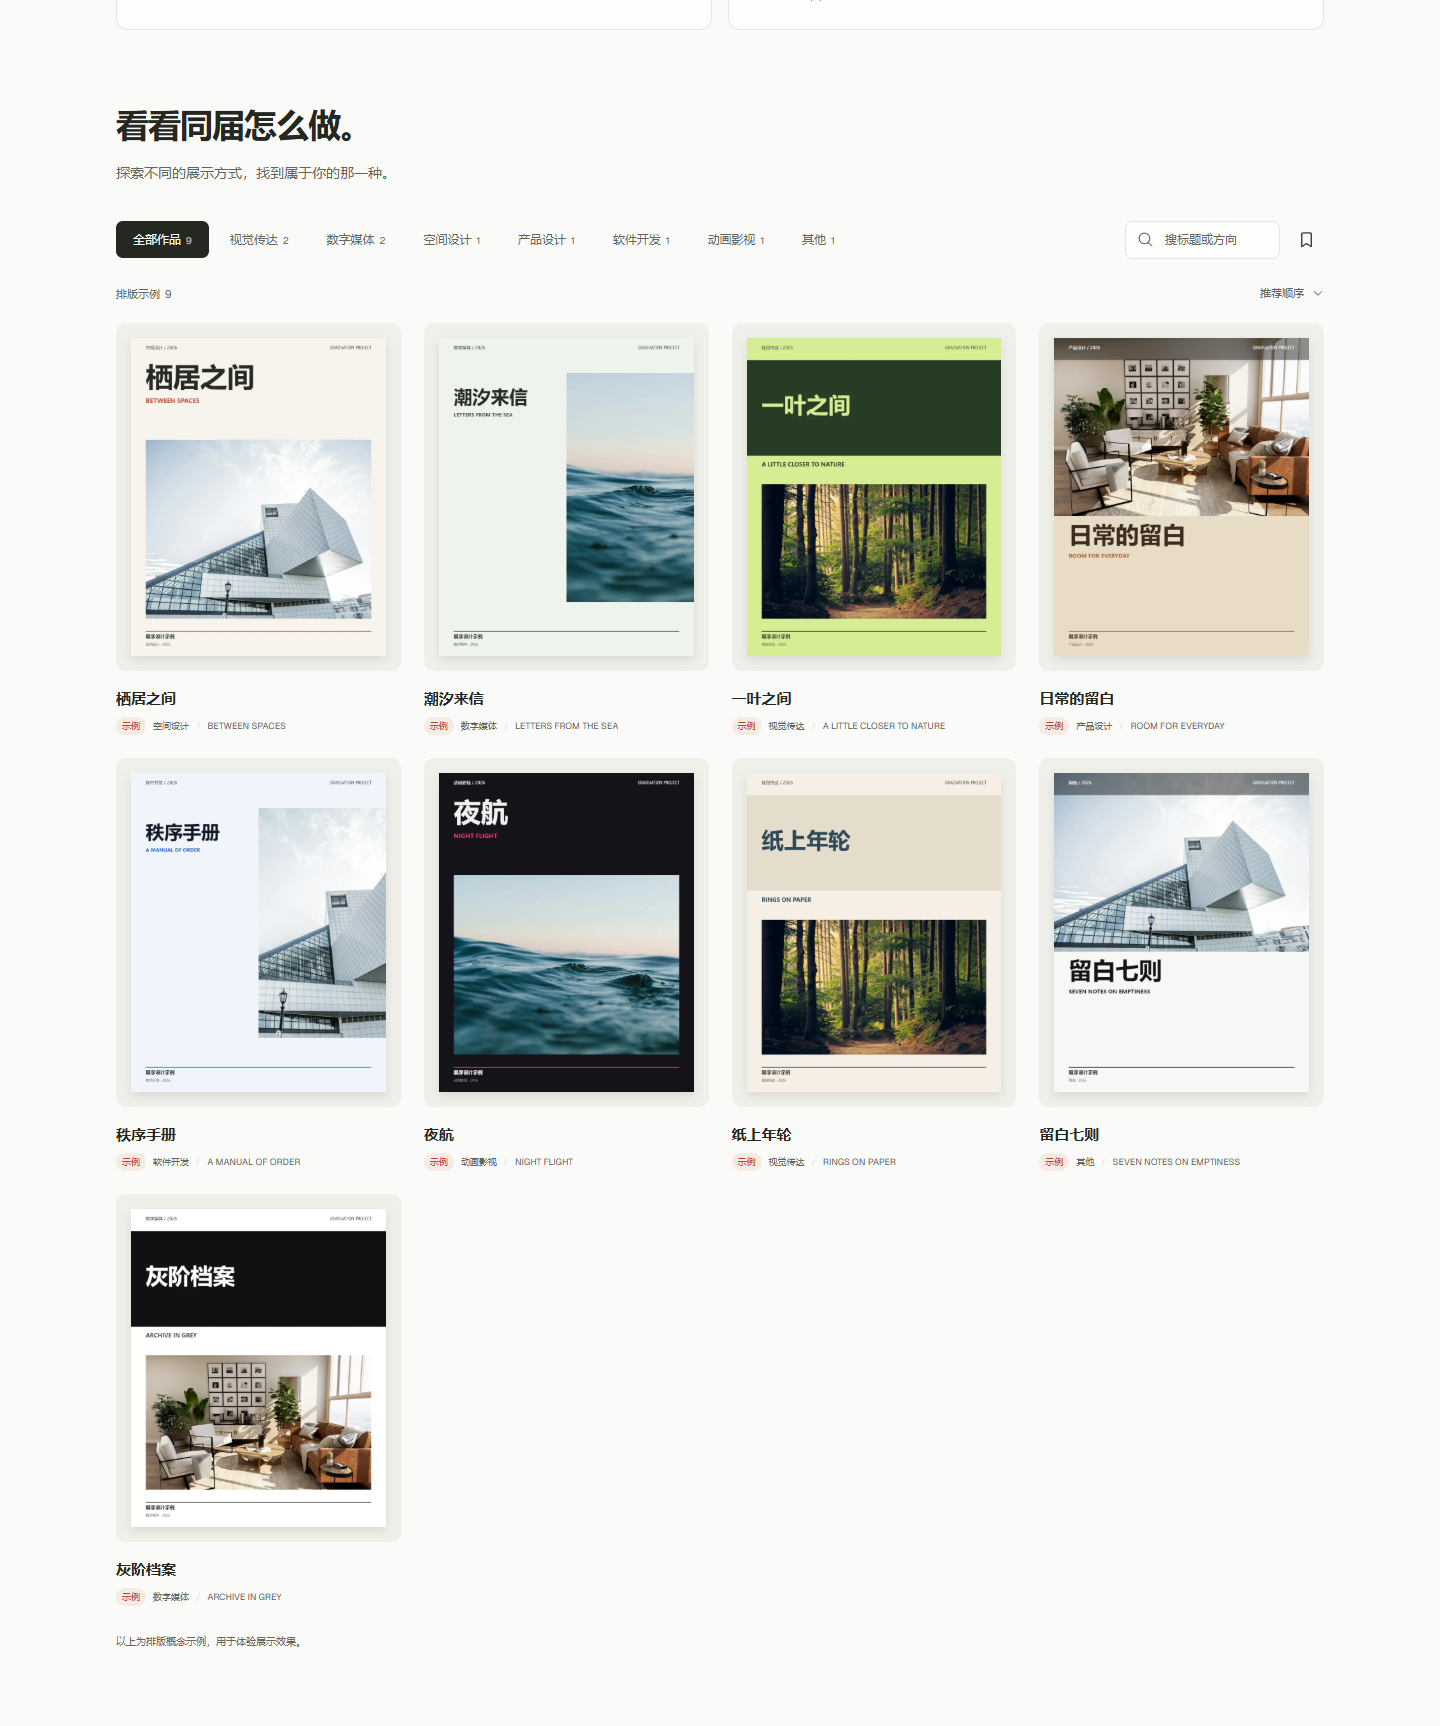
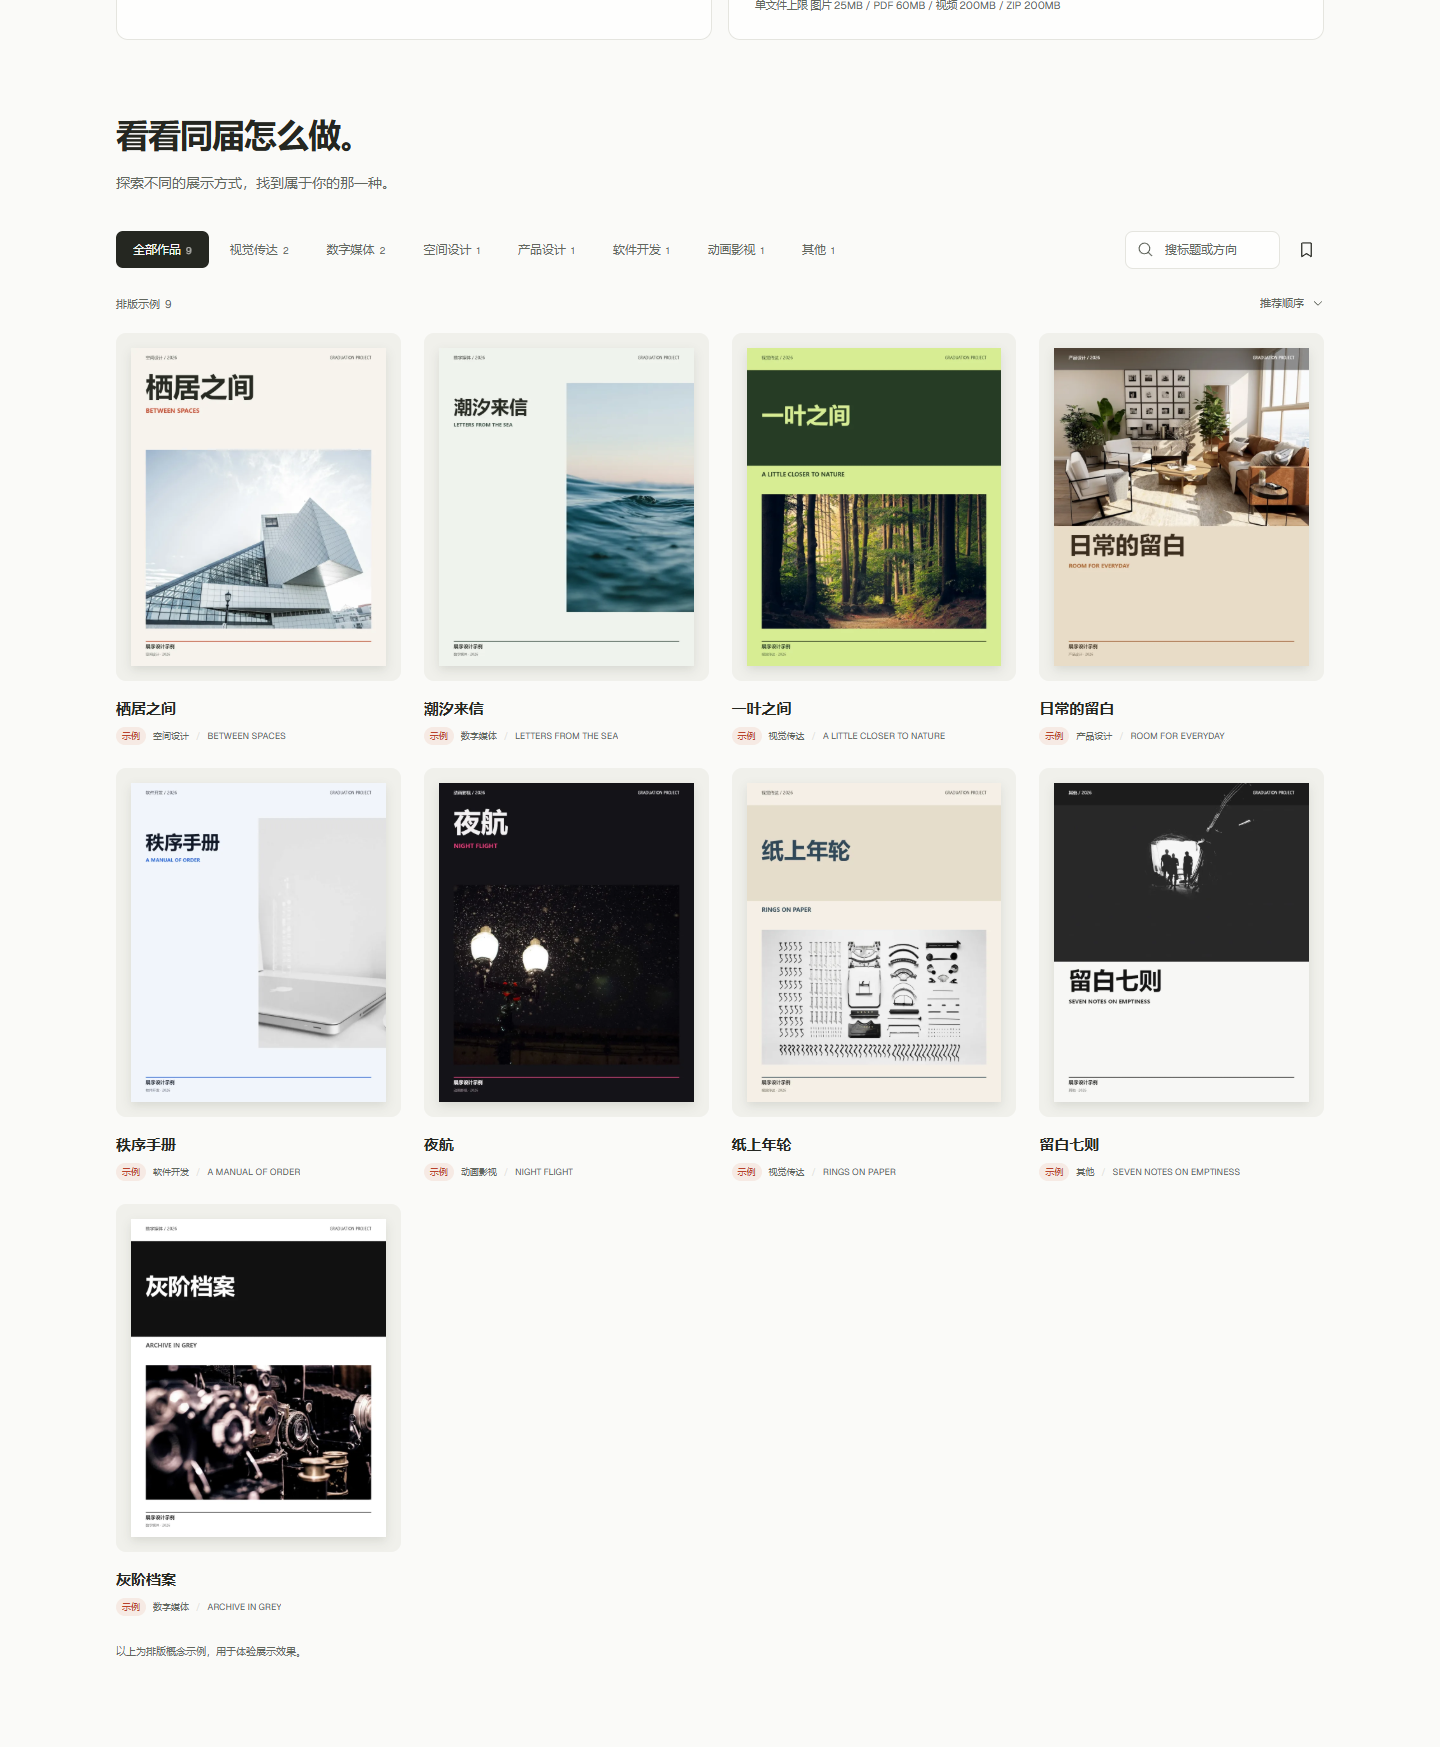
fix: 示例作品与模板展示去重，九套模板各配一个不同作品
之前展示模板页与首页模板区都拿同一个示例作品（栖居之间）套九套配色，
九张卡片看起来像同一件作品换色；九件示例也只用四张照片。

- catalog.ts 新增 sampleForTemplate()，展示模板页与首页模板区各按模板取对应示例
- 五件示例更换为互不重复的图片（工作台、铅字纸样、夜灯、旧相机、黑白剪影）
- e2e 新增展示模板页断言：九张卡片 + 九个不同预览图（浏览器检查 23 项）
- 截图更新 home/home-features/home-discover，新增 templates.png；README 截图与说明同步
- docs/release-v1.0.4.md，版本号 1.0.4

diff --git a/src/data/catalog.ts b/src/data/catalog.ts
@@ -153,7 +153,7 @@ export const samples: Project[] = [
       '为一套内部工具重新梳理信息结构：把分散的功能收进统一的层级，让每个人都摸清「东西放在哪」。',
     process: '梳理字段与流程，搭出组件规范，再用可交互原型验证命名与层级是否讲得通。',
     template: 'cobalt',
-    images: [{ id: 'f', src: '/images/architecture.jpg', name: '结构与秩序' }],
+    images: [{ id: 'f', src: '/images/desk.jpg', name: '工作台与方法手册' }],
     updatedAt: 0,
     sample: true,
   },
@@ -167,7 +167,7 @@ export const samples: Project[] = [
     intro: '一段关于夜间飞行的短片概念：用光点与声音的节奏，讲述一个人在城市上空独自行走的两小时。',
     process: '分镜推演、色彩情绪板、声音设计与剪辑节奏测试。',
     template: 'neon',
-    images: [{ id: 'g', src: '/images/ocean.jpg', name: '海面与夜色' }],
+    images: [{ id: 'g', src: '/images/night.jpg', name: '夜里的灯' }],
     updatedAt: 0,
     sample: true,
   },
@@ -181,7 +181,7 @@ export const samples: Project[] = [
     intro: '把一年的手写笔记、票据与草图整理成一本可以翻阅的小书，用纸的厚度记录时间的分层。',
     process: '素材编号与整理、网格实验、纸张与装订方式打样。',
     template: 'paper',
-    images: [{ id: 'h', src: '/images/forest.jpg', name: '纸与墨的层次' }],
+    images: [{ id: 'h', src: '/images/lettering.jpg', name: '铅字与纸样' }],
     updatedAt: 0,
     sample: true,
   },
@@ -195,7 +195,7 @@ export const samples: Project[] = [
     intro: '以七张单色影像回应「空」的七种解释，尝试用最少的元素留下最大的想象空间。',
     process: '收集日常痕迹、做减法实验、为每张影像配一句短注。',
     template: 'ink',
-    images: [{ id: 'i', src: '/images/architecture.jpg', name: '线条与空白' }],
+    images: [{ id: 'i', src: '/images/silhouette.jpg', name: '黑与白之间' }],
     updatedAt: 0,
     sample: true,
   },
@@ -209,8 +209,12 @@ export const samples: Project[] = [
     intro: '把同一处场景在不同时间拍下的照片并置，用灰阶差异标记光线与季节的推移。',
     process: '定点拍摄、灰阶校准，再按时间顺序编排成一份可对比的档案。',
     template: 'mono',
-    images: [{ id: 'j', src: '/images/interior.jpg', name: '同一处场景' }],
+    images: [{ id: 'j', src: '/images/camera.jpg', name: '档案里的器物' }],
     updatedAt: 0,
     sample: true,
   },
 ];
+/** 展示模板时给每个模板配一个「本来就用它」的示例作品：九张卡片是九个不同的作品，不是同一个作品换九套配色 */
+export function sampleForTemplate(id: TemplateId): Project {
+  return samples.find((sample) => sample.template === id) ?? samples[0];
+}

diff --git a/scripts/e2e.ts b/scripts/e2e.ts
@@ -134,6 +134,22 @@ try {
   await page.getByRole('heading', { name: '没有找到相关作品' }).waitFor();
   await page.getByRole('button', { name: '查看全部作品', exact: true }).click();
   pass('首页、示例封面与搜索空状态');
+  await page.getByRole('button', { name: '挑选展示模板' }).click();
+  await page.locator('.template-full').first().waitFor();
+  assert.equal(await page.locator('.template-full').count(), 9, '展示模板页应该列全 9 套模板');
+  const templateSources = await page
+    .locator('.template-full .poster-image img')
+    .evaluateAll((nodes) => nodes.map((node) => node.getAttribute('src') || ''));
+  assert.equal(
+    new Set(templateSources).size,
+    9,
+    '每套模板要配一个不同的示例作品，不是同一个作品换九套配色',
+  );
+  await warmScroll(page);
+  await page.screenshot({ path: path.join(out, 'templates-page.png'), fullPage: true });
+  await page.getByRole('button', { name: '返回首页' }).click();
+  await page.locator('.hero-art').waitFor();
+  pass('展示模板页：九套模板配九个不同示例');
   const fixturePage = await context.newPage();
   await fixturePage.setContent(
     '<html lang="zh-CN"><style>@page{size:A4;margin:24mm}body{font-family:Arial,sans-serif}section{break-after:page}</style><section><h1>Graduation Project</h1><h2>Project Overview</h2><p>This is a two page project document used for upload verification.</p></section><h2>Design Process</h2><p>Research, prototyping and implementation.</p></html>',

diff --git a/src/pages/Home.tsx b/src/pages/Home.tsx
@@ -13,7 +13,7 @@ import {
   CaretDown,
 } from '@phosphor-icons/react';
 import type { Project, TemplateId } from '../domain/project';
-import { categories, samples, templates } from '../data';
+import { categories, sampleForTemplate, samples, templates } from '../data';
 import { useReveal } from '../lib/reveal';
 import FeatureShowcase from '../components/FeatureShowcase';
 import PosterImage from '../components/PosterImage';
@@ -408,7 +408,7 @@ export default function Home({
               onClick={() => start(template.id)}
               aria-label={'使用' + template.name + '模板'}
             >
-              <PosterImage project={{ ...samples[0], template: template.id }} width={360} />
+              <PosterImage project={sampleForTemplate(template.id)} width={360} />
               <span>
                 {template.name}
                 <ArrowUpRight size={14} />

diff --git a/src/pages/Templates.tsx b/src/pages/Templates.tsx
@@ -1,5 +1,5 @@
 import { ArrowLeft, ArrowUpRight, ImageSquare } from '@phosphor-icons/react';
-import { samples, templates } from '../data';
+import { sampleForTemplate, templates } from '../data';
 import type { TemplateId } from '../data';
 import PosterImage from '../components/PosterImage';
 export default function Templates({
@@ -28,7 +28,7 @@ export default function Templates({
               onClick={() => start(t.id)}
               aria-label={'选择' + t.name}
             >
-              <PosterImage project={{ ...samples[0], template: t.id }} width={750} />
+              <PosterImage project={sampleForTemplate(t.id)} width={750} />
             </button>
             <div className="template-full-info">
               <div>

diff --git a/src/data.ts b/src/data.ts
@@ -20,4 +20,4 @@ export {
   skeletonOptions,
   posterSizeOptions,
 } from './domain/project';
-export { categories, templates, samples } from './data/catalog';
+export { categories, templates, samples, sampleForTemplate } from './data/catalog';

diff --git a/docs/verification.md b/docs/verification.md
@@ -5,7 +5,7 @@
 - 前端TypeScript、服务端TypeScript与Vite生产构建。
 - 单元与集成测试共46项通过：海报渲染的骨架/配色/二维码、压缩包解析规则、公开/私密发布、备份与恢复、单文件网页版作品集的转义/分节/图片内嵌/模板配色。
 - API与管理测试20项通过：未登录与来源校验、账号隔离、文件校验、私有文件保护、版本冲突、危险URL拒绝、快照发布更新撤回、公开/私密发布与切换公开范围、管理接口权限、删除文件同步清理草稿与快照、删除项目与账号、孤儿文件清理、PNG与ZIP导出、删除与退出登录。
-- 浏览器完整流程22项通过：注册、创建、图片/两页PDF/WebM/ZIP上传、模块关联、保存刷新、未保存内容恢复、发布、匿名访问、PDF公开控制、私密发布后匿名既打不开也搜不到、切回公开恢复访问、真实PNG/ZIP/作品集PDF/单文件网页下载、首页9个模板示例与分类计数、零填写导入压缩包、游客模式建草稿与登录后迁移、首页功能区的对比滑杆与二维码、工作台与深色模式、390px布局、手机编辑器、减少动态效果、无障碍、撤回。
+- 浏览器完整流程23项通过：注册、创建、图片/两页PDF/WebM/ZIP上传、模块关联、保存刷新、未保存内容恢复、发布、匿名访问、PDF公开控制、私密发布后匿名既打不开也搜不到、切回公开恢复访问、真实PNG/ZIP/作品集PDF/单文件网页下载、首页9个模板示例与分类计数、展示模板页9套模板各配一个不同示例、零填写导入压缩包、游客模式建草稿与登录后迁移、首页功能区的对比滑杆与二维码、工作台与深色模式、390px布局、手机编辑器、减少动态效果、无障碍、撤回。
 - 服务端PNG封面1600×2000；ZIP包含分页PNG与说明文本；测试实际读取文件签名与尺寸。
 - 真正启动Chromium，在生产构建页面上执行流程；没有仅靠模拟接口。
 - 公开项目页WCAG 2 A/AA自动检查通过；曾发现按钮与说明文字对比度不足，已经修复。

diff --git a/README_EN.md b/README_EN.md
@@ -28,6 +28,10 @@ This is a runnable full-stack application, suitable for personal graduation proj
 | ---------------------------------------------------- |
 | ![Discover grid](docs/screenshots/home-discover.png) |
 
+| Templates page: nine themes, nine different samples |
+| --------------------------------------------------- |
+| ![Templates page](docs/screenshots/templates.png)   |
+
 ## Features
 
 - Email/password registration, sign-in, sign-out and password change with server-side sessions (scrypt hashing, hashed session tokens, CSRF origin checks, rate limiting).
@@ -41,6 +45,7 @@ This is a runnable full-stack application, suitable for personal graduation proj
 - Guest mode: create a draft, preview and export a portfolio without an account; publishing asks you to sign in, then the draft moves into your account.
 - Multiple colour ways per project, plus a draggable before/after comparison on the public page.
 - Discovery of published works with category search, bookmarks and sorting; the feed starts with all nine template samples (real public projects and samples shown together, samples are labelled and cannot be bookmarked).
+- Each of the nine themes ships with a different sample project, so the templates page and the home strip show nine works instead of one work recoloured nine times.
 - Three cover layouts; server-side export of a 1600px-wide PNG cover or an auto-paginated PNG picture pack (ZIP).
 - Multi-page A4 portfolio PDF (auto table of contents, page numbers, binding margin), a single-file HTML portfolio (all images inlined, opens offline by double-click) and a booth QR code for print or screen.
 - The home page demonstrates import, layout, comparison, export and asset handling with real components.

diff --git a/docs/release-v1.0.4.md b/docs/release-v1.0.4.md
@@ -1,0 +1,15 @@
+# 展序 v1.0.4
+
+毕业设计完整项目展示平台，包含账号、项目与素材管理、模块化作品页、公开发布及撤回、封面与作品集导出。
+
+本版是一轮「去重」修正：示例作品与模板展示之前看起来像同一个作品的九种换色，现在每套模板都配一个真正不同的示例作品。数据结构不变，可直接覆盖升级。
+
+- 展示模板页与首页模板区改成「一套模板配一个示例作品」（新增 `sampleForTemplate()`）：九个卡片是九个作品，不再是同一个作品换九套配色。
+- 示例作品补齐五张各不相同的图片（工作台、铅字纸样、夜灯、旧相机、黑白剪影），九件示例各有一张图，发现区不再出现同一张照片反复出现。图片来源见 docs/assets.md。
+- 首页模板区的九个卡片与展示模板页共用同一份预览图，发现区、模板页、首页三处看到的示例互不重复。
+- 测试：浏览器检查新增「展示模板页：九套模板配九个不同示例」（断言九张卡片、九个不同预览），共 23 项；单元测试 46 项。
+- 截图更新：docs/screenshots/home.png、home-features.png、home-discover.png，新增 templates.png（展示模板页）。
+
+运行：Node.js 24+，执行 npm ci、npm run build、npm start，访问本机 3001 端口。网站与 API 部署见 docs/deployment.md。
+
+源码不包含实际用户数据库、上传文件、环境密钥和测试产物。

diff --git a/README.md b/README.md
@@ -28,6 +28,10 @@
 | --------------------------------------------- |
 | ![发现区](docs/screenshots/home-discover.png) |
 
+| 展示模板：九套模板，九个示例作品              |
+| --------------------------------------------- |
+| ![展示模板页](docs/screenshots/templates.png) |
+
 ## 功能
 
 - 邮箱密码注册、登录、退出、修改密码，服务端会话。
@@ -41,6 +45,7 @@
 - 游客模式：不登录也能建草稿、预览与导出作品集，发布时再引导登录，登录后草稿自动搬进账号。
 - 同一件作品可存多套配色，公开页提供拖动前后对比。
 - 已发布作品发现、分类搜索、收藏与排序；发现区默认铺满九套模板示例（真实公开项目与示例合并展示，示例带标记、不可收藏）。
+- 九套模板各配一个不同的示例作品，展示模板页与首页模板区看到的是九个作品，不是同一个作品换九套配色。
 - 站点管理页：看每个账号的占用，删除上传的文件、项目或账号（管理员由 ADMIN_EMAILS 指定）。
 - 三种封面版式；后台导出1600px宽PNG封面或自动分页的PNG图文ZIP。
 - A4多页作品集PDF（自动目录、页码与装订边）、单文件网页版作品集（.html，图片已内嵌，双击就能离线看）与展台二维码，贴板、扫码都能看。

diff --git a/docs/assets.md b/docs/assets.md
@@ -8,5 +8,13 @@
 | interior.jpg     | https://images.unsplash.com/photo-1600210492486-724fe5c67fb0 |
 | ocean.jpg        | https://images.unsplash.com/photo-1518837695005-2083093ee35b |
 | forest.jpg       | https://images.unsplash.com/photo-1441974231531-c6227db76b6e |
+| desk.jpg         | https://unsplash.com/photos/wE9nUW7tMmk (Nadir Balcikli)     |
+| lettering.jpg    | https://unsplash.com/photos/-K6JMRMj4x4 (Florian Klauer)     |
+| night.jpg        | https://unsplash.com/photos/Qh6wsKk1HWg (Hide Obara)         |
+| camera.jpg       | https://unsplash.com/photos/YOT6kS8YtEA (Mario Calvo)        |
+| silhouette.jpg   | https://unsplash.com/photos/-FgZlbzZ0R8 (Martin Wessely)     |
+
+后来补的五张（desk / lettering / night / camera / silhouette）经 picsum.photos 取回，原始图片页见上表括号内的
+Unsplash 作者；适用 Unsplash License（可免费使用，无需署名）。九套示例配色各配一张，避免九张卡片看起来像同一张图。
 
 界面图标来自已安装的 @phosphor-icons/react；字体来自 @fontsource-variable/geist。favicon复用Phosphor图标的已安装版本。
